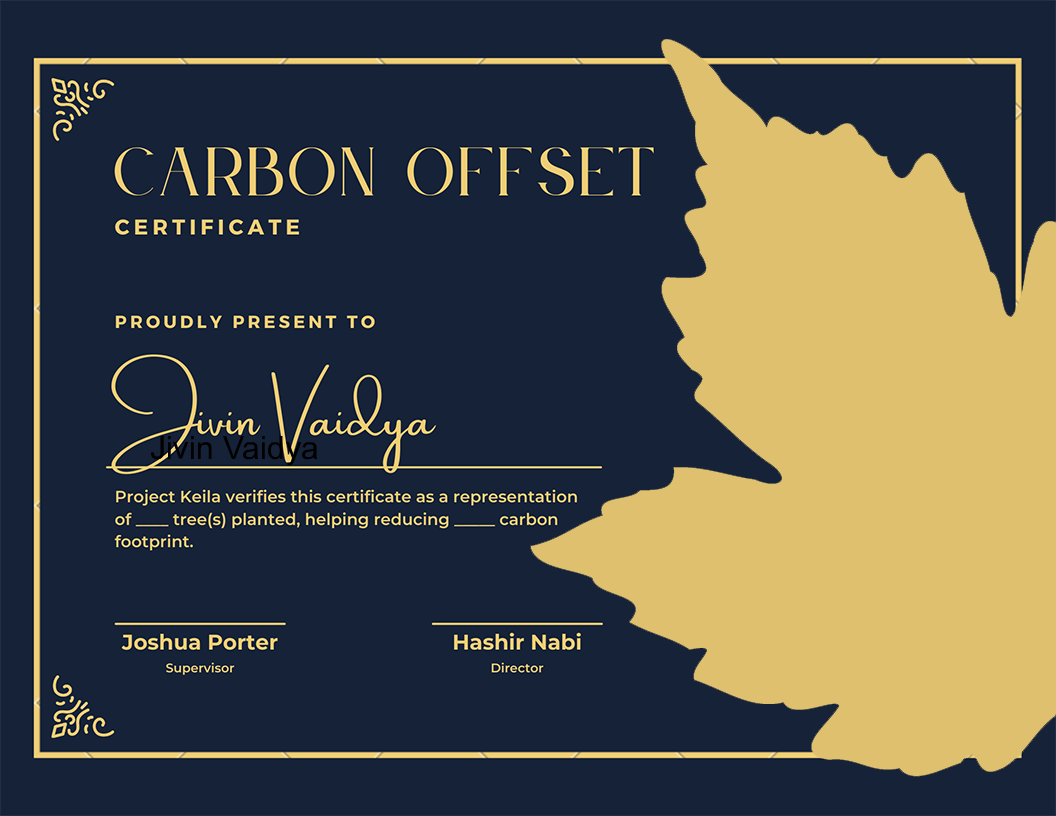
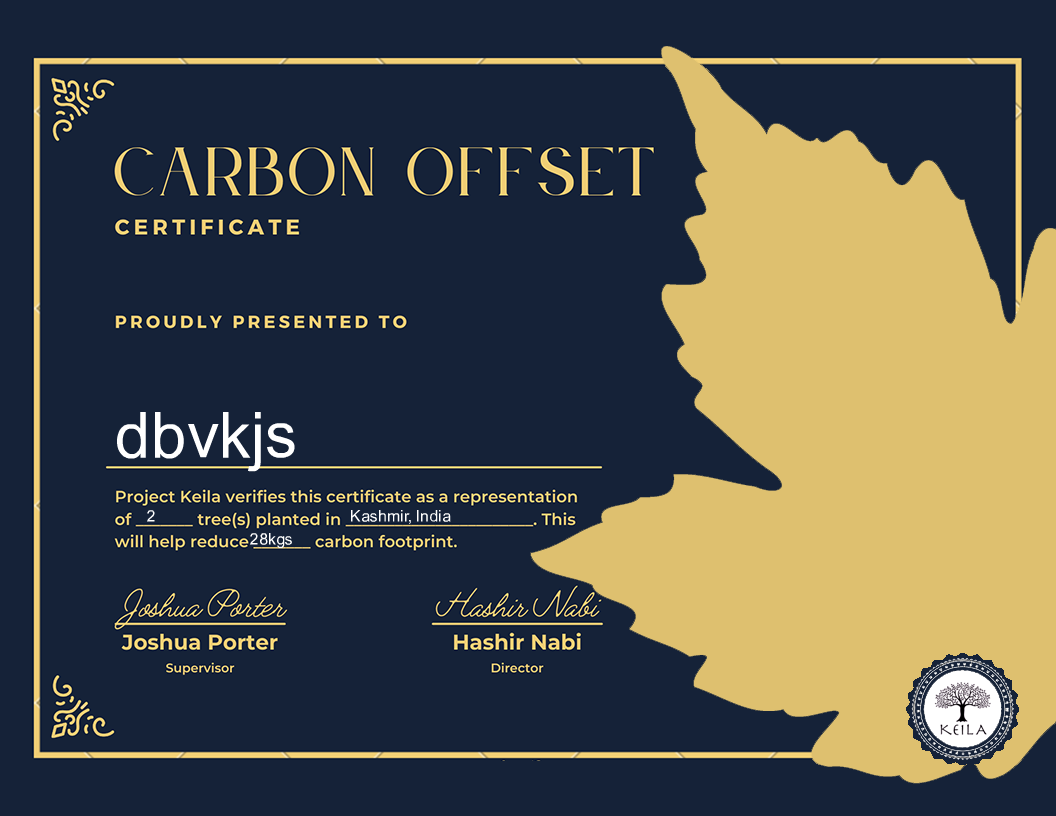
fixes and changes

diff --git a/src/utils/uploadMetadata.ts b/src/utils/uploadMetadata.ts
@@ -8,33 +8,34 @@ import { ConiferTree } from '../model/entity/ConiferTree';
 import { PoplarTree } from '../model/entity/PoplarTree';
 import Jimp from 'jimp';
 import { Certificate } from '../model/entity/Certificate';
+import { off } from 'process';
 
 const API_KEY = env.nftApiKey;
 
-async function writeToCertificate() {
+async function writeToCertificate(name: string, number: number, location: string, offsetCapacity: number) {
   const image = await Jimp.read(`${__dirname}/images/certificate.png`);
-  const font = await Jimp.loadFont(Jimp.FONT_SANS_32_BLACK);
-  image.print(font, 10, 350, 'Jivin Vaidya');
-  await image.writeAsync('./images/certificate-1.png');
+  const font = await Jimp.loadFont(Jimp.FONT_SANS_64_WHITE);
+  const fontSmall = await Jimp.loadFont(Jimp.FONT_SANS_16_WHITE);
+  image.print(font, 115, 400, name);
+  image.print(fontSmall, 147, 507, number);
+  image.print(fontSmall, 350, 507, location);
+  image.print(fontSmall, 250, 530, `${offsetCapacity}kgs`);
+  await image.writeAsync(`${__dirname}/images/certificate-1.png`);
 }
 
 async function fileFromPath(filePath: string) {
-  const content = await fs.promises.readFile(`${__dirname}/images/certificate.png`)
+  const content = await fs.promises.readFile(`${__dirname}/images/certificate-1.png`)
   const type = mime.getType(filePath)
-  return new File([content], path.basename(filePath), { type: type! })
+  return new File([content], path.basename("keila-certificate"), { type: type! })
 }
 
-//const formatFilePath = (filePath: string) => {
-//return filePath.split("-").map(w => w.charAt(0).toUpperCase() + w.slice(1)).join(" ")
-//}
 
-async function uploadMetadata(filePath: string, trees: AppleTree[] | ConiferTree[] | PoplarTree[]) {
+async function uploadMetadata(name: string, filePath: string, trees: AppleTree[] | ConiferTree[] | PoplarTree[]) {
   try {
-    await writeToCertificate()
+    const offsetCapacity = trees[0].offsetCapacity * trees.length;
+    await writeToCertificate(name, trees.length, "Kashmir, India", offsetCapacity)
 
     const image = await fileFromPath(filePath)
-
-    //const name = formatFilePath(filePath);
 
     const nft = {
       image, // use image Blob as `image` field
@@ -68,7 +69,7 @@ async function uploadMetadata(filePath: string, trees: AppleTree[] | ConiferTree
         },
         {
           "trait_type": "initial_offset_capacity",
-          "value": `${trees[0].offsetCapacity * trees.length} kgs carbon per year`,
+          "value": `${offsetCapacity} kgs carbon per year`,
         },
       ],
     }

diff --git a/src/hash.ts b/src/hash.ts
@@ -1,16 +1,22 @@
 import Jimp from "jimp";
 import { sign } from "jsonwebtoken";
-import env from "./env";
+//import env from "./env";
 
 async function writeToCertificate() {
   const image = await Jimp.read('./utils/images/certificate.png');
-  const font = await Jimp.loadFont(Jimp.FONT_SANS_32_BLACK);
-  image.print(font, 150, 430, 'Jivin Vaidya');
+  const font = await Jimp.loadFont(Jimp.FONT_SANS_64_WHITE);
+  const fontSmall = await Jimp.loadFont(Jimp.FONT_SANS_16_WHITE);
+  image.print(font, 115, 400, 'Jivin Vaidya');
+  image.print(fontSmall, 147, 507, '10');
+  image.print(fontSmall, 350, 507, 'Kashmir, India');
+  image.print(fontSmall, 250, 530, '140kgs');
   await image.writeAsync('./utils/images/certificate-1.png');
 }
+writeToCertificate();
 
 console.log(sign({
-  tokenId: "1",
-  id: "630234d9151190b5d1277cea"
+  name: "John Doe",
+  type: "apple-tree",
+  quantity: 10
 }, "b90d04d4-dc62-47ee-bf05-98796ebbcd23"))
 

diff --git a/src/routes/metadata.ts b/src/routes/metadata.ts
@@ -14,10 +14,12 @@ router.post("/certificate", async (req, res, next) => {
   try {
     const { token } = req.body;
     const data = verify(token, env.jwtSecret!);
-    let type, quantity;
+    let name, type, quantity;
     let trees;
     let treeCount = 0;
     if (typeof data === "object") {
+      console.log(data)
+      name = data.name;
       type = data.type;
       quantity = data.quantity;
     }
@@ -45,7 +47,7 @@ router.post("/certificate", async (req, res, next) => {
     trees = trees?.slice(0, parseInt(quantity));
 
     if (typeof trees === "object") {
-      const metadata = await uploadMetadata(type, trees);
+      const metadata = await uploadMetadata(name, type, trees);
       return res.json({ metadata })
     }
     return res.status(200).json({ trees, treeCount });

diff --git a/src/routes/certificate.ts b/src/routes/certificate.ts
@@ -1,6 +1,7 @@
 import { Router } from "express";
 import { verify } from "jsonwebtoken";
 import env from "../env";
+import isAuth from "../middleware/isAuth";
 import { Certificate } from "../model/entity/Certificate";
 import { Api500Error } from "../utils/error/apiErrors";
 
@@ -50,6 +51,17 @@ router.put("/", async (req, res, next) => {
     return next(new Api500Error(error.message));
   }
 
+})
+
+router.delete("/", isAuth, async (_req, res, next) => {
+  try {
+    await Certificate.delete({})
+    return res.json({ success: true, message: "Deleted" })
+
+  } catch (error: any) {
+    return next(new Api500Error(error.message))
+
+  }
 })
 
 export default router;

diff --git a/src/server.ts b/src/server.ts
@@ -57,6 +57,7 @@ declare module 'express-session' {
   app.use("/auth", authRouter);
 
   app.use((err: BaseError, _req: Request, res: Response, _next: NextFunction) => {
+    console.log(err)
     res.status(err.statusCode ? err.statusCode : 500).json({ status: false, message: err.name ? err.name : "Something went wrong!" })
   })
 
